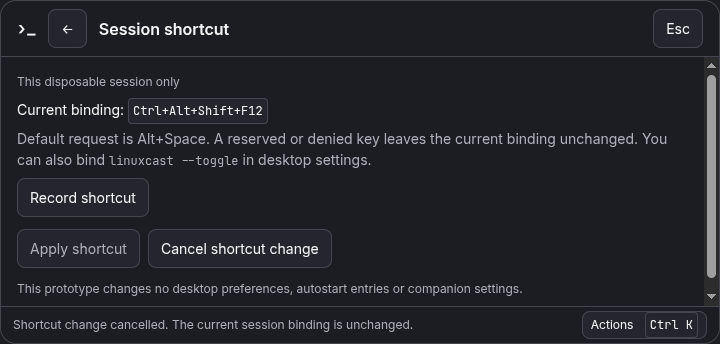
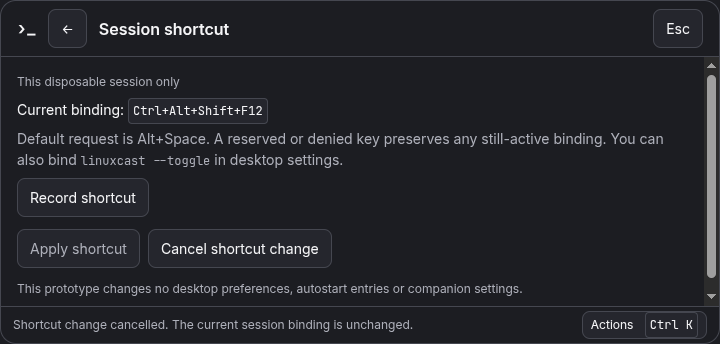
fix(S0-01): restore action focus when toggling with keyboard

Changed region(s): [[0.0306, 0.436, 0.5194, 0.4942], [0.5194, 0.3779, 0.9167, 0.436]]

diff --git a/spikes/launcher/tests/launcher.integration.test.ts b/spikes/launcher/tests/launcher.integration.test.ts
@@ -356,7 +356,9 @@ describe("S0-01 lifecycle, native activation and renderer boundaries", () => {
         );
       // Simulate loss of this app's old backend registration, then try a key
       // still held by the real second app. A stale key must not be advertised.
-      await app!.evaluate(({ globalShortcut }) => globalShortcut.unregisterAll());
+      await app!.evaluate(({ globalShortcut }) =>
+        globalShortcut.unregisterAll(),
+      );
       const stale = await page.evaluate(() =>
         window.linuxcast.setShortcut("Ctrl+Alt+Shift+F11"),
       );
@@ -478,6 +480,17 @@ describe("S0-01 lifecycle, native activation and renderer boundaries", () => {
           .evaluate((el) => el === document.activeElement),
       )
       .toBe(true);
+    await page.keyboard.press("Control+k");
+    expect(
+      await page.getByRole("dialog", { name: "Launcher actions" }).count(),
+    ).toBe(0);
+    expect(
+      await page
+        .getByRole("button", { name: "Actions Ctrl K" })
+        .evaluate((el) => el === document.activeElement),
+    ).toBe(true);
+    await page.keyboard.press("Control+k");
+    await page.getByRole("dialog", { name: "Launcher actions" }).waitFor();
     await page.keyboard.press("Escape");
     expect(
       await page.getByRole("dialog", { name: "Launcher actions" }).count(),

diff --git a/spikes/launcher/src/renderer/App.tsx b/spikes/launcher/src/renderer/App.tsx
@@ -175,7 +175,8 @@ export function App() {
         }
         if (event.ctrlKey && event.key.toLowerCase() === "k") {
           event.preventDefault();
-          setActions((value) => !value);
+          if (actions) closeActions();
+          else setActions(true);
         }
       }}
     >
@@ -358,7 +359,7 @@ export function App() {
               </p>
               <p className="muted">
                 Default request is {DEFAULT_SHORTCUT}. A reserved or denied key
-                leaves the current binding unchanged. You can also bind{" "}
+                preserves any still-active binding. You can also bind{" "}
                 <code>linuxcast --toggle</code> in desktop settings.
               </p>
               <button

diff --git a/spikes/launcher/README.md b/spikes/launcher/README.md
@@ -68,3 +68,5 @@ No companion, portal, input service, keyboard device, GNOME setting, autostart e
 Primary API references: [Electron app identity/lifecycle](https://www.electronjs.org/docs/latest/api/app), [global shortcuts and portal limitations](https://www.electronjs.org/docs/latest/api/global-shortcut), [BrowserWindow Wayland limitations](https://www.electronjs.org/docs/latest/api/browser-window), [custom protocol](https://www.electronjs.org/docs/latest/api/protocol), [security checklist](https://www.electronjs.org/docs/latest/tutorial/security), [Playwright Electron launch sandbox option](https://playwright.dev/docs/api/class-electron#electron-launch-option-chromium-sandbox). Source APIs do not substitute for the unexecuted desktop gates.
 
 Coordinator review closed two recovery/security findings: disposable profiles now require an immediate private child of the canonical temporary directory, preventing a shared ancestor from replacing the profile; failed shortcut replacement reports the previous binding only after verifying that it is still registered. The nested-profile regression and real competing-Electron/lost-registration regression pass. Independent delta review reran all eight unit checks and strict typecheck without findings. The real-host integration suite passes ten checks; target-desktop and screen-reader limitations above remain open.
+
+The final UI review also reproduced loss of keyboard focus when Ctrl+K closed its action panel. Closing now uses the same focus-restoration path as Escape; the real Electron regression verifies toggle-close, restored focus, reopen and Escape. Final ten integration checks pass and an independent reviewer found no remaining delta findings.
